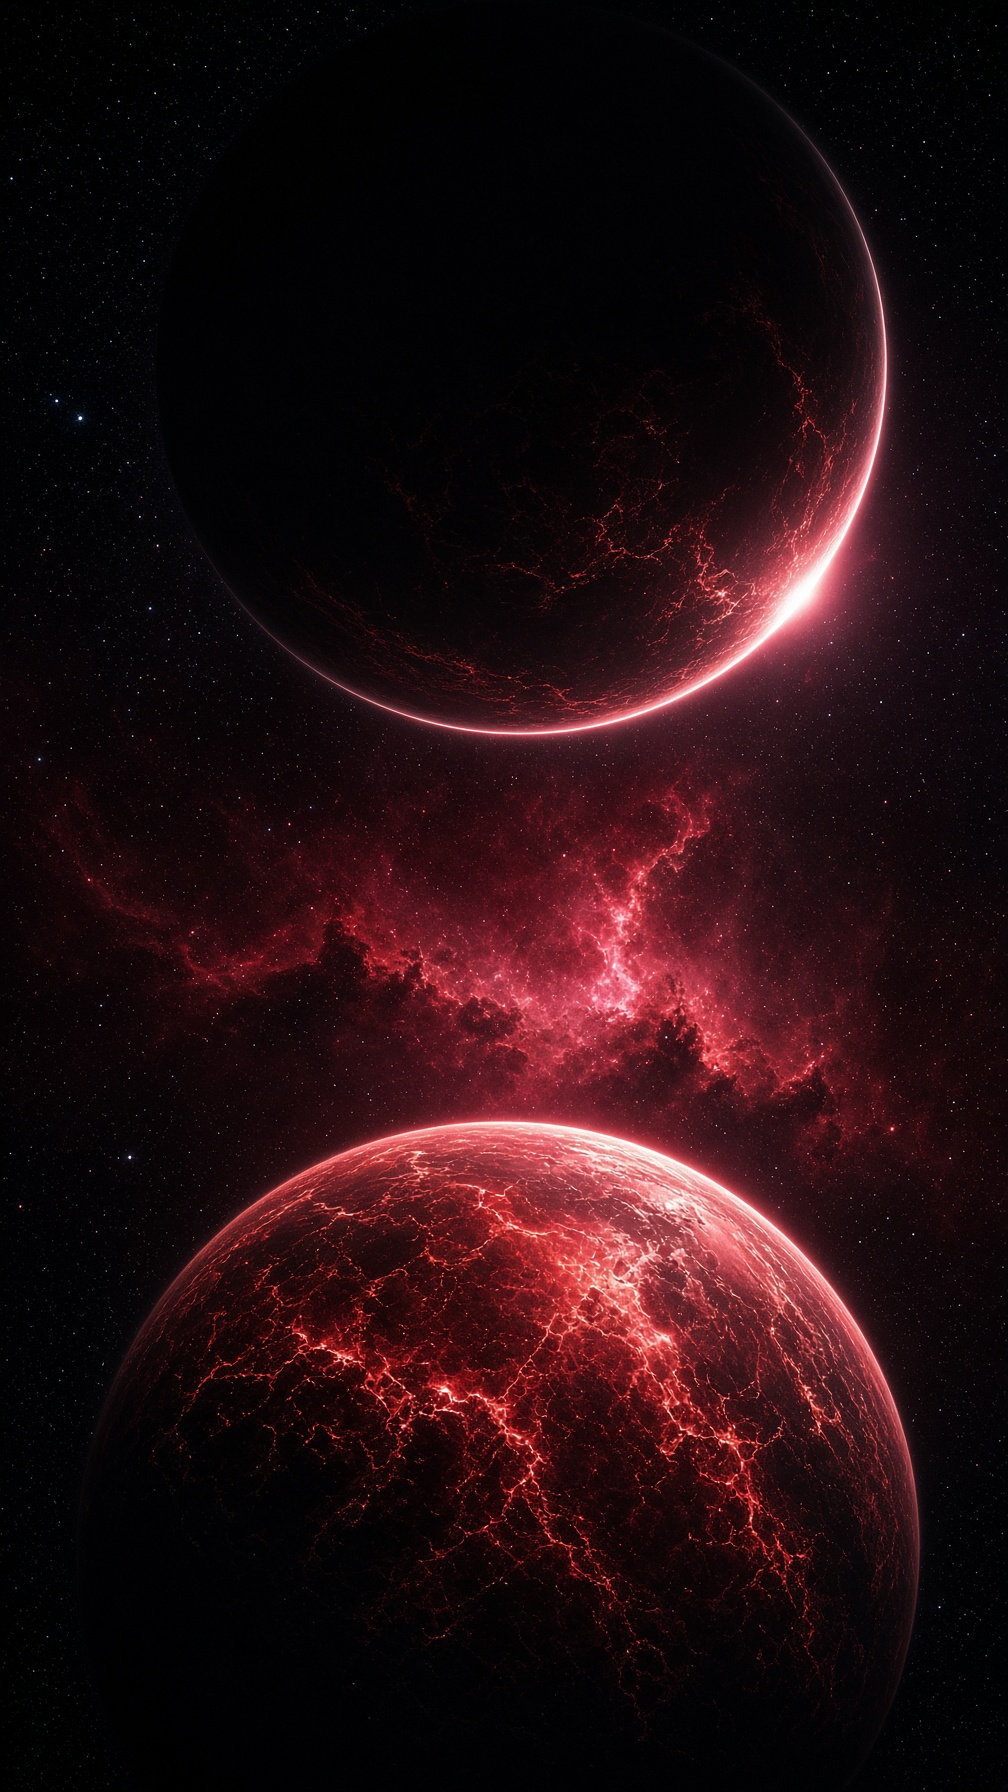
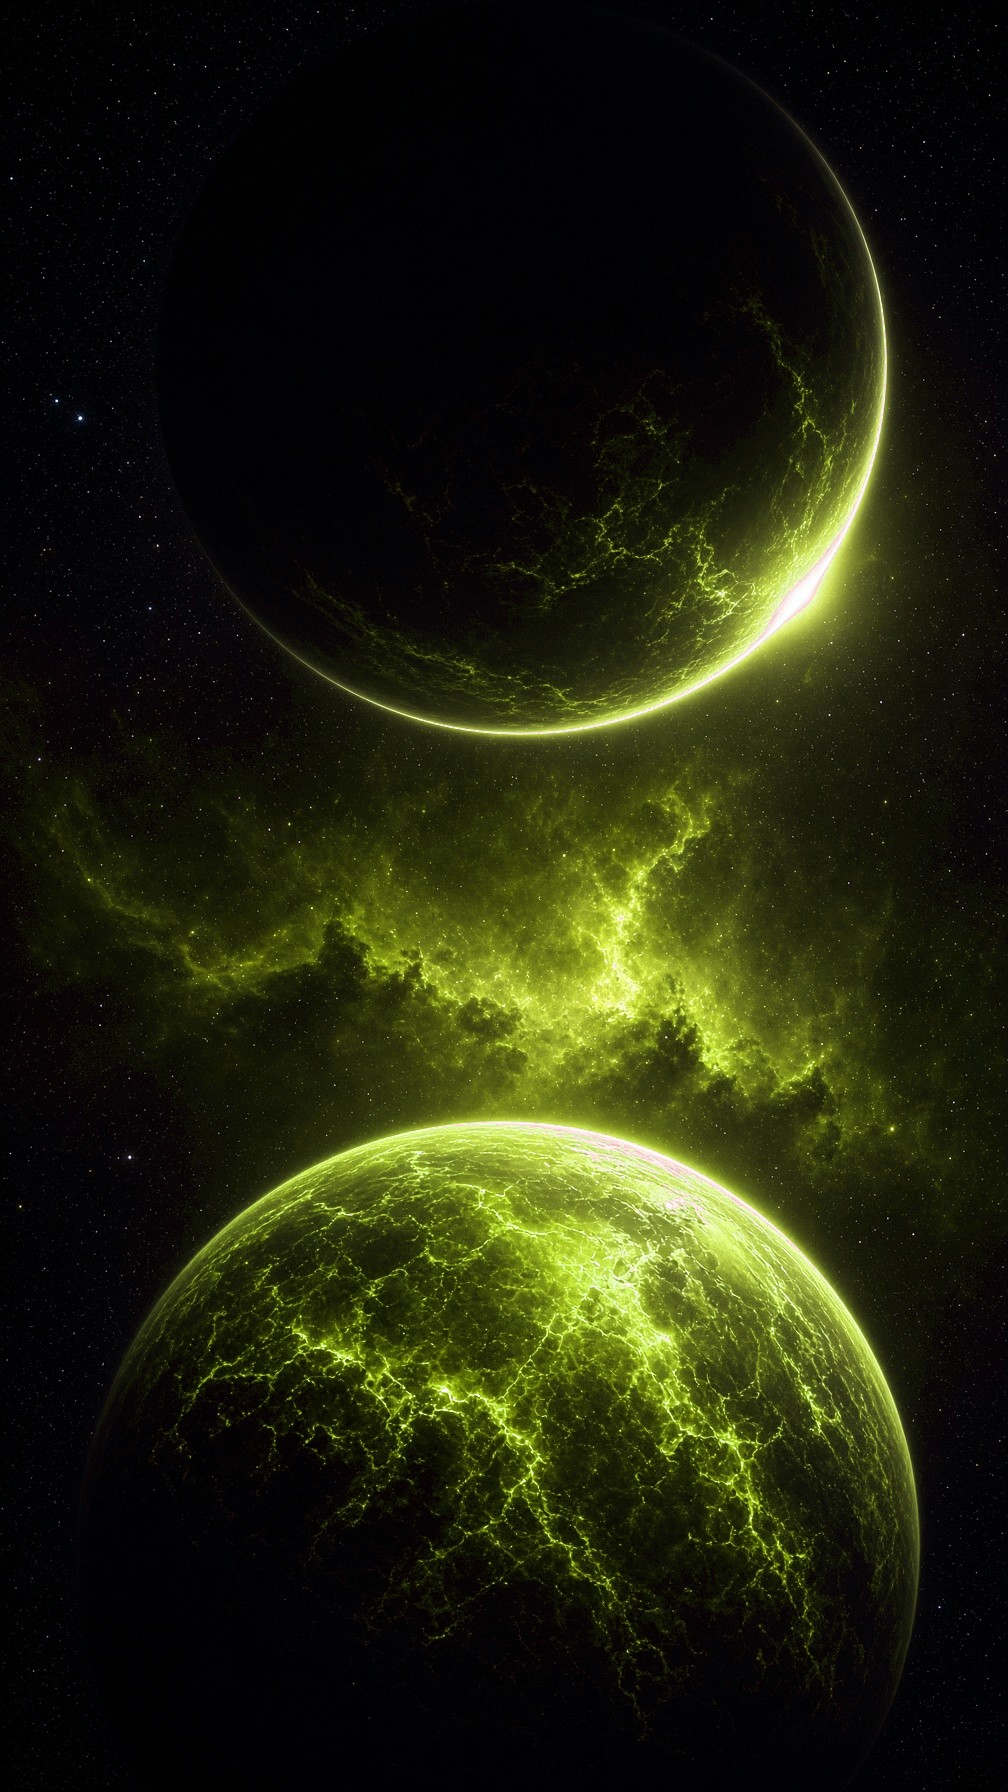
Lead with the expert, then the RTX 5090.
His strategies are confirmed on that system using over 20 years of real data, and the planets match the logo.

Changed region(s): [[0.0308, 0.125, 0.9534, 0.9062], [0.5228, 0.3125, 0.5843, 0.3438]]

diff --git a/src/components/landing/sections.tsx b/src/components/landing/sections.tsx
@@ -15,21 +15,21 @@ const PILLARS = [
   {
     icon: Cpu,
     title: "Deposit, then we work",
-    body: "Put the cash in. The RTX 5090 bots already tested the strategies, and a real expert stays in the loop. You watch the funds. We do the trading.",
+    body: "Put the cash in. His strategies are already confirmed. You watch the funds. We do the trading.",
   },
 ];
 
 const PROMISES = [
-  { icon: Cpu, title: "RTX 5090 bots", body: "The machines tested multiple winning strategies before a trade is run for you." },
-  { icon: Headphones, title: "A real expert", body: "A human trader stays in the loop. The bots do not trade alone." },
-  { icon: Wallet, title: "Three steps to start", body: "Account, our broker, a deposit. Then you are trading." },
-  { icon: Bot, title: "We do the work", body: "After the deposit you are not the one placing trades. You watch it grow." },
+  { icon: Headphones, title: "A real expert first", body: "The strategies are his. A human trader leads. The machine does not invent the idea." },
+  { icon: Cpu, title: "Confirmed on an RTX 5090", body: "Those strategies are tested and confirmed on a powerful RTX 5090 system." },
+  { icon: Bot, title: "20 years of real data", body: "The system trains on over 20 years of real market data, not a toy history." },
+  { icon: Wallet, title: "Then we trade", body: "Open the account, connect our broker, and we do the rest." },
 ];
 
 const QUESTIONS = [
   {
     q: "What is the strategy?",
-    a: "AI bots built on an RTX 5090 tested multiple winning strategies. A real human expert stays in the loop, so the trading is not a machine left on its own.",
+    a: "A real expert trader comes first. His strategies are tested and confirmed on a powerful RTX 5090, trained on over 20 years of real data.",
   },
   {
     q: "How do I start?",
@@ -68,14 +68,14 @@ export function Story() {
         <div className="grid items-end gap-10 md:grid-cols-12">
           <div className="md:col-span-7">
             <SectionLabel>About</SectionLabel>
-            <h2 className="display mt-4 text-4xl text-fg md:text-6xl">Tested by the bots. Run with an expert.</h2>
+            <h2 className="display mt-4 text-4xl text-fg md:text-6xl">A real expert. Then the machine confirms him.</h2>
           </div>
           <div className="md:col-span-5">
             <p className="text-base leading-relaxed text-muted">
-              Easy Money is AI bots built on an RTX 5090. They tested multiple winning strategies. A real human expert stays in the loop, so the trading is not a black box left overnight.
+              A real expert trader comes first. His strategies are tested and confirmed on a powerful RTX 5090, trained on over 20 years of real data.
             </p>
             <p className="mt-4 text-base leading-relaxed text-muted">
-              Starting is the simple part. Set up the trading account, connect our broker, deposit, and then let us do the work.
+              Open the account, connect our broker and we do the rest.
             </p>
           </div>
         </div>
@@ -145,7 +145,7 @@ const REVIEWS = [
     name: "Chris D.",
     place: "Austin",
     quote:
-      "The bots did the testing on serious hardware, and a real trader is still in it. I just funded the account.",
+      "A real trader's strategies, confirmed on an RTX 5090 with decades of data. I just funded the account.",
   },
 ];
 
@@ -204,7 +204,7 @@ export function Footer() {
             <Mark className="h-16 w-auto" />
           </a>
           <p className="mt-4 max-w-sm text-sm leading-relaxed text-muted">
-            AI bots on an RTX 5090 tested the strategies. A real expert stays in the loop. You open the account, connect our broker, deposit, and we trade. Markets can lose money. Nothing here is a promise of profit.
+            Open the account, connect our broker and we do the rest.
           </p>
         </div>
         <nav className="flex flex-wrap gap-x-6 gap-y-3 text-sm text-muted" aria-label="Footer">

diff --git a/src/components/landing/hero.tsx b/src/components/landing/hero.tsx
@@ -71,7 +71,7 @@ export function Hero() {
       <div className="relative z-10 mx-auto flex min-h-svh max-w-6xl flex-col px-5 pt-24 pb-8 md:pt-28">
         <div className="mx-auto max-w-3xl text-center">
           <p className="rise eyebrow" style={{ ["--delay" as string]: "0.05s" }}>
-            RTX 5090 bots · expert in the loop
+            A real expert trader
           </p>
           <h1 className="display mt-5 text-5xl text-fg sm:text-6xl lg:text-7xl">
             <span className="rise block" style={{ ["--delay" as string]: "0.12s" }}>
@@ -85,7 +85,7 @@ export function Hero() {
             className="rise mx-auto mt-5 max-w-md text-base leading-relaxed text-muted"
             style={{ ["--delay" as string]: "0.32s" }}
           >
-            AI bots tested the winning strategies. A real trader stays in the loop. Open the account, connect our broker, deposit, and we do the rest.
+            Open the account, connect our broker and we do the rest.
           </p>
           <div className="rise mt-7" style={{ ["--delay" as string]: "0.42s" }}>
             <StartButton label="Start trading" />

diff --git a/src/routes/__root.tsx b/src/routes/__root.tsx
@@ -12,7 +12,7 @@ export const Route = createRootRoute({
       {
         name: "description",
         content:
-          "AI bots on an RTX 5090 tested the strategies, with a real expert in the loop. Open an account, connect our broker, deposit, and we do the trading.",
+          "A real expert trader comes first. His strategies are tested and confirmed on an RTX 5090 trained on over 20 years of real data.",
       },
       { name: "theme-color", content: "#07040a" },
     ],
